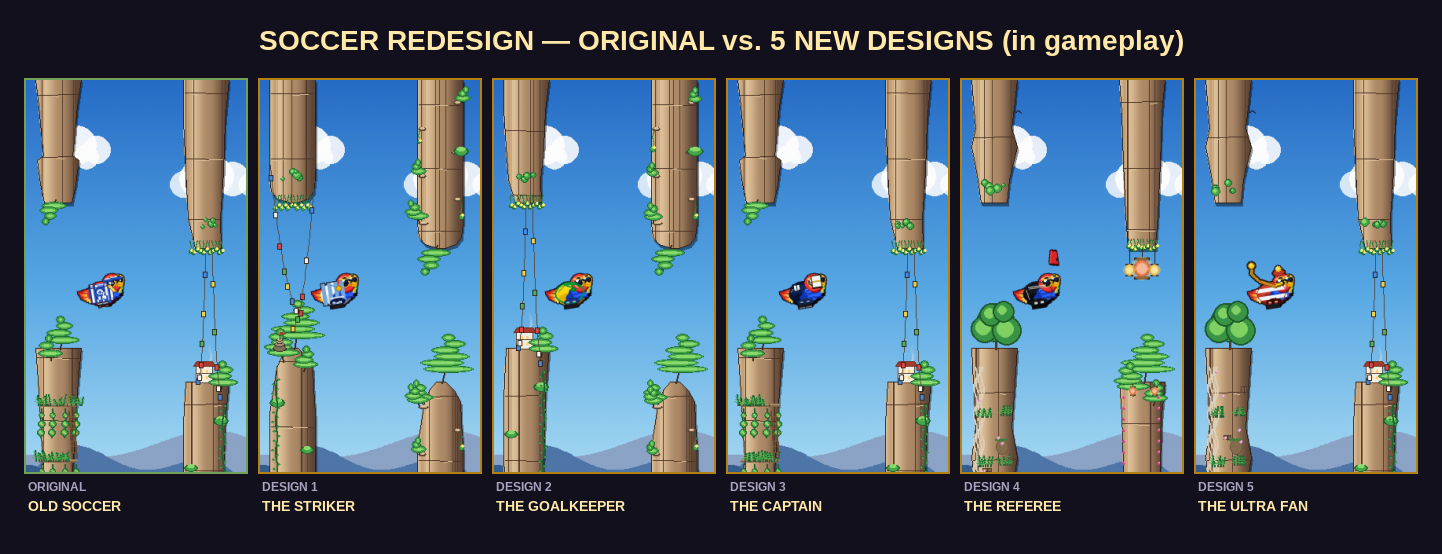
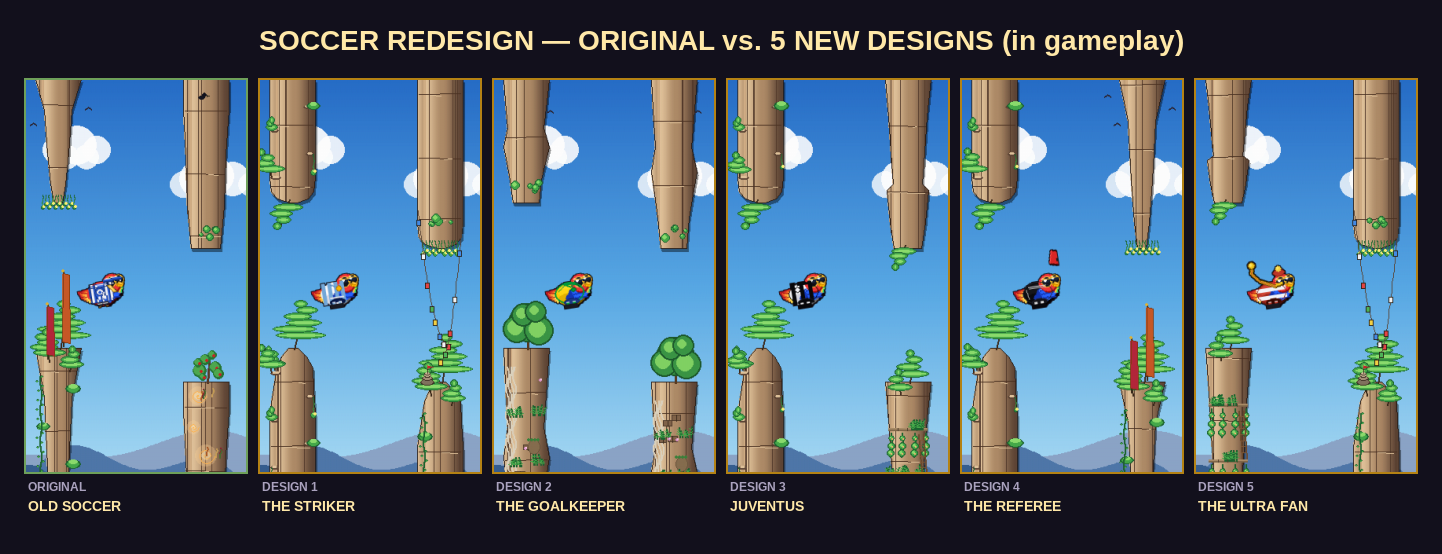
Soccer v9 D3 R1: Juventus bianconeri black+white vertical stripes
Claude-Session: https://claude.ai/code/session_01HafGQfRZVDiGkQqpJPr5Cm

diff --git a/tools/soccer_candidates/design_3.py b/tools/soccer_candidates/design_3.py
@@ -1,19 +1,15 @@
-"""THE CAPTAIN — Pip as a soccer team captain (DESIGN 3 of the SOCCER set).
+"""JUVENTUS "LA VECCHIA SIGNORA" — Pip in the bianconeri kit (DESIGN 3 of SOCCER).
 
 Scratch exploration only; NOT registered in store_skins.BUILDERS, so production
 is untouched.
 
 Architecture: the jersey IS the body. Rather than pasting a flat jersey polygon
 over the scarlet macaw (which anchored to the head centre and skipped the belly),
-this recolours the body oval through the palette system — `_pal` + the
-`_build_parrot_with_palette` builder used for the ghost variants. The whole torso
-mass reads as a deep-navy kit, while the head stays macaw-red and the wings stay
-macaw-blue so it still reads as "a parrot dressed as a captain."
-
-`_paint` then overlays only the garment detail that can't be a body recolour —
-white club crest, shorts, hooped socks, near-black cleats, and the HERO PROP: a
-wide white captain's armband with a gold spine on the near wing, the brightest,
-widest mark on the sprite so it owns the "captain" read at 40px.
+this recolours the body oval WHITE through the palette system — `_pal` +
+`_build_parrot_with_palette`. `_paint` then clips to the body oval and lays down
+three black vertical bands, so the whole torso reads as Juve's black-and-white
+stripes. Head stays macaw-red and wings stay macaw-blue so it still reads as
+"a parrot in the bianconeri kit."
 """
 import pygame
 
@@ -23,16 +19,17 @@ from game.draw import (
     BIRD_RED, BIRD_BEAK, BIRD_BEAK_D, BIRD_WING, BIRD_WING_D, BIRD_TIP,
 )
 
-# Kit navy is the body palette — jersey, chest and belly are all one dark mass,
-# shaded so the recoloured torso still reads as a rounded body under the wing.
+# The body oval is re-plumaged WHITE so the bianconeri stripes in _paint can sit
+# on a bright field. Head stays macaw-red, wings stay macaw-blue so only the
+# torso reads as the striped kit and the bird keeps its identity.
 _PAL = _pal(
     tail=[(200, 30, 40), (240, 95, 40), (255, 160, 55), (255, 220, 80)],
     tail_line=(170, 25, 25),
-    body_shadow=(4, 10, 30),
-    body_main=(10, 26, 62),
-    body_chest=(14, 36, 78),
-    body_belly=(8, 20, 52),
-    sheen=(40, 65, 120, 70),
+    body_shadow=(195, 195, 205),
+    body_main=(242, 242, 245),
+    body_chest=(250, 250, 252),
+    body_belly=(215, 215, 225),
+    sheen=(255, 255, 255, 100),
     wing_main=BIRD_WING,
     wing_dark=BIRD_WING_D,
     wing_tip=BIRD_TIP,
@@ -62,57 +59,40 @@ def _base(angle_deg):
 
 
 def _paint(surf, _a):
-    # WING-BODY SEAM PIPING — the critical VALUE BREAK. With the jersey and the
-    # macaw-blue wing both dark, a bright white line down the wing root is what
-    # keeps the two masses from fusing into one silhouette at 40px.
-    pygame.draw.line(surf, (200, 200, 200), (BCX + 9, BCY - 12), (BCX + 16, BCY - 4), 2)
-    pygame.draw.line(surf, (200, 200, 200), (BCX - 9, BCY - 12), (BCX - 16, BCY - 4), 1)
+    # BIANCONERI STRIPES — the whole "Juve" tell. Clip to the body oval so the
+    # black bands wrap the torso silhouette instead of spilling into the sky,
+    # then re-outline the oval so the striped field reads as one rounded jersey.
+    clip_prev = surf.get_clip()
+    surf.set_clip(pygame.Rect(BCX - 19, BCY - 14, 38, 28))
+    for x in (BCX - 15, BCX - 4, BCX + 7):
+        pygame.draw.rect(surf, (10, 10, 12), (x, BCY - 14, 5, 28))
+    surf.set_clip(clip_prev)
+    pygame.draw.ellipse(surf, (10, 10, 12), (BCX - 19, BCY - 14, 38, 28), 1)
 
-    # Club CREST — a hard-edged white shield with a navy keyline and a vertical
-    # bar device. Geometric so it survives the downscale as a crisp emblem, not
-    # a soft smudge, on the deep-navy torso.
-    crest_x, crest_y = BCX - 8, BCY - 8
-    shield = [(crest_x - 4, crest_y - 4), (crest_x + 4, crest_y - 4),
-              (crest_x + 4, crest_y + 2), (crest_x, crest_y + 5),
-              (crest_x - 4, crest_y + 2)]
-    _poly(surf, (240, 240, 240), shield)
-    pygame.draw.polygon(surf, (10, 26, 62), shield, 1)
-    pygame.draw.line(surf, (10, 26, 62),
-                     (crest_x, crest_y - 4), (crest_x, crest_y + 5), 1)
+    # COLLAR — a black crew-neck band right under the red head, so the striped
+    # jersey reads as a collared shirt rather than a raw recolour edge.
+    pygame.draw.line(surf, (10, 10, 12), (BCX - 7, BCY - 12), (BCX + 9, BCY - 12), 3)
 
-    # SHORTS — a fraction lighter than the body so there is a 1px value tick
-    # between torso and kit; the socks below carry the real light break.
-    _SHT = (18, 42, 90)
-    pygame.draw.ellipse(surf, _SHT, (BCX - 9, BCY + 7, 20, 9))
-    pygame.draw.ellipse(surf, (28, 58, 120), (BCX - 9, BCY + 7, 20, 9), 1)
+    # CREST — a pale oval shield with a black rim, sat in the left white stripe
+    # so it survives the downscale as a crisp club badge, not a soft smudge.
+    pygame.draw.circle(surf, (10, 10, 12), (BCX - 7, BCY - 5), 4)
+    pygame.draw.circle(surf, (245, 245, 250), (BCX - 7, BCY - 5), 3)
 
-    # SOCKS — the only light value in the lower zone, so they must be BOLD: a
-    # thick white hoop split by a navy double-hoop keeps clear white gaps above
-    # the near-black cleats instead of a single dark clump.
+    # SHORTS — black to match Juve's away/short colour, with a lighter rim so
+    # the leg-line stays crisp against the striped torso above.
+    pygame.draw.ellipse(surf, (10, 10, 12), (BCX - 9, BCY + 7, 20, 9))
+    pygame.draw.ellipse(surf, (28, 28, 36), (BCX - 9, BCY + 7, 20, 9), 1)
+
+    # SOCKS — black shanks with a single white turn-over hoop, so the lower zone
+    # keeps one bright value break above the near-black cleats.
     for sx in (27, 35):
-        pygame.draw.line(surf, (240, 240, 245), (sx, BCY + 11), (sx, BCY + 16), 4)
-        pygame.draw.line(surf, (10, 26, 62), (sx, BCY + 12), (sx, BCY + 13), 4)
-        pygame.draw.line(surf, (10, 26, 62), (sx, BCY + 14), (sx, BCY + 15), 4)
+        pygame.draw.line(surf, (10, 10, 12), (sx, BCY + 11), (sx, BCY + 16), 4)
+        pygame.draw.line(surf, (242, 242, 245), (sx, BCY + 12), (sx, BCY + 14), 4)
 
-    # CLEATS — near-black boots with a silver sole stripe along the bottom edge.
-    for fx in (23, 31):
-        pygame.draw.rect(surf, (28, 28, 36), (fx, BCY + 14, 9, 5), border_radius=1)
-        pygame.draw.line(surf, (160, 162, 170),
-                         (fx + 1, BCY + 18), (fx + 8, BCY + 18), 1)
-
-    # HERO PROP · CAPTAIN'S ARMBAND (drawn LAST) — the whole "captain" tell. Sat
-    # further out on the near wing against open sky, wide with a hard dark border
-    # so the bright white band + gold spine own the read even at 40px.
-    _ARM_W = (248, 248, 248)
-    _ARM_G = (200, 165, 40)
-    _ARM_D = (30, 25, 10)
-    ax, ay = BCX + 17, BCY - 12
-    _poly(surf, _ARM_D, [(ax - 5, ay - 8), (ax + 7, ay - 8),
-                         (ax + 7, ay + 8), (ax - 5, ay + 8)])
-    _poly(surf, _ARM_W, [(ax - 4, ay - 7), (ax + 6, ay - 7),
-                         (ax + 6, ay + 6), (ax - 4, ay + 6)])
-    pygame.draw.line(surf, _ARM_G, (ax - 4, ay - 1), (ax + 6, ay - 1), 2)
-    pygame.draw.rect(surf, _ARM_D, (ax - 5, ay - 8, 13, 17), 1)
+    # CLEATS — near-black boots below the socks with a visible gap, so the kit
+    # stack (shorts, socks, boots) stays legible at 40px.
+    for cx in (23, 31):
+        pygame.draw.rect(surf, (10, 10, 12), (cx, BCY + 14, 9, 5), border_radius=1)
 
 
 build = _make_skin(_paint, base_fn=_base)

diff --git a/tools/render_soccer_compare.py b/tools/render_soccer_compare.py
@@ -22,7 +22,7 @@ COLUMNS = [
     ("ORIGINAL", "OLD SOCCER", "orig"),
     ("DESIGN 1", "THE STRIKER", "design_1"),
     ("DESIGN 2", "THE GOALKEEPER", "design_2"),
-    ("DESIGN 3", "THE CAPTAIN", "design_3"),
+    ("DESIGN 3", "JUVENTUS", "design_3"),
     ("DESIGN 4", "THE REFEREE", "design_4"),
     ("DESIGN 5", "THE ULTRA FAN", "design_5"),
 ]
